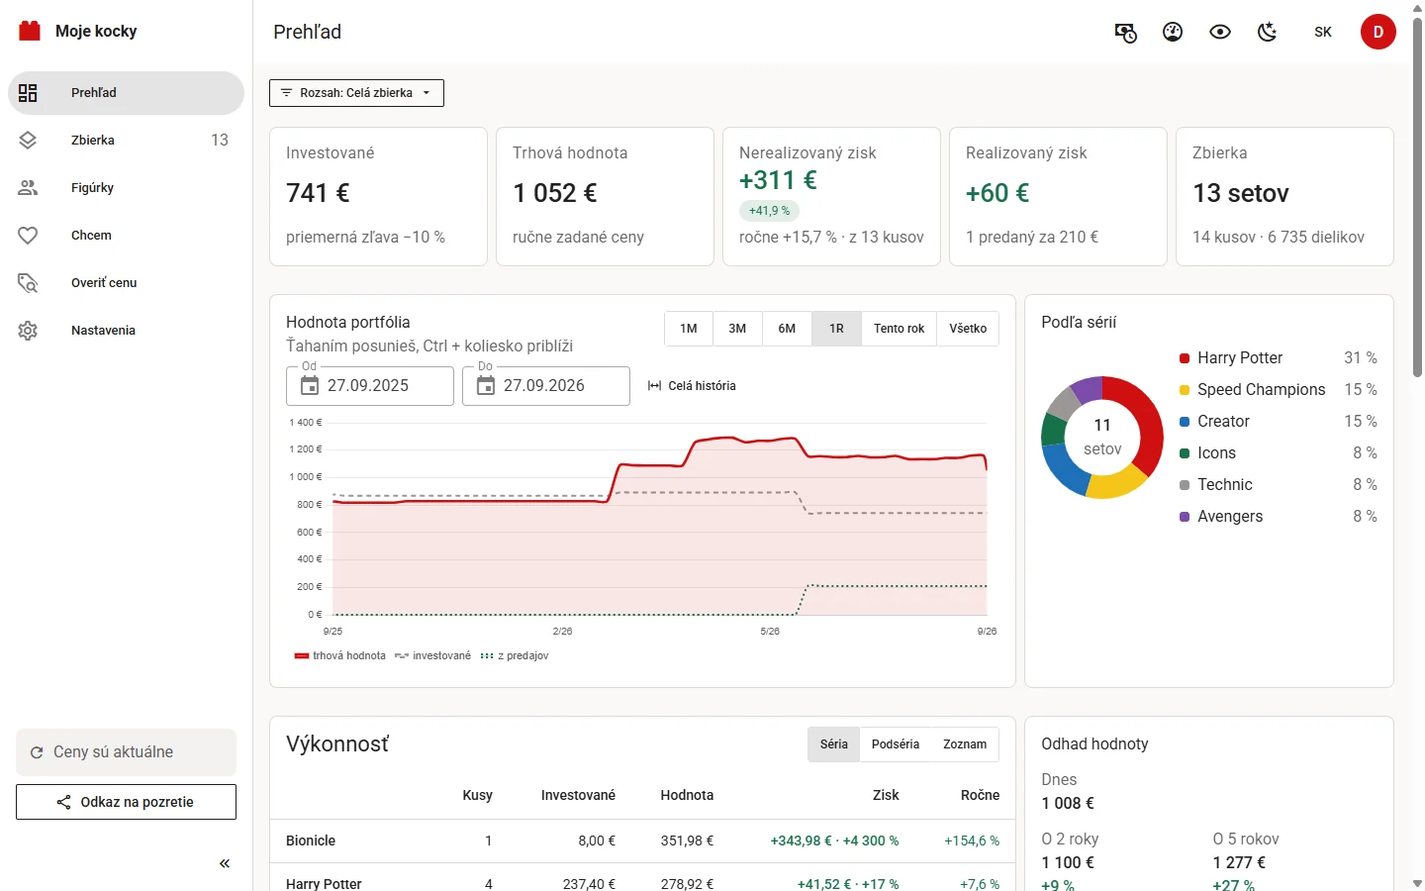
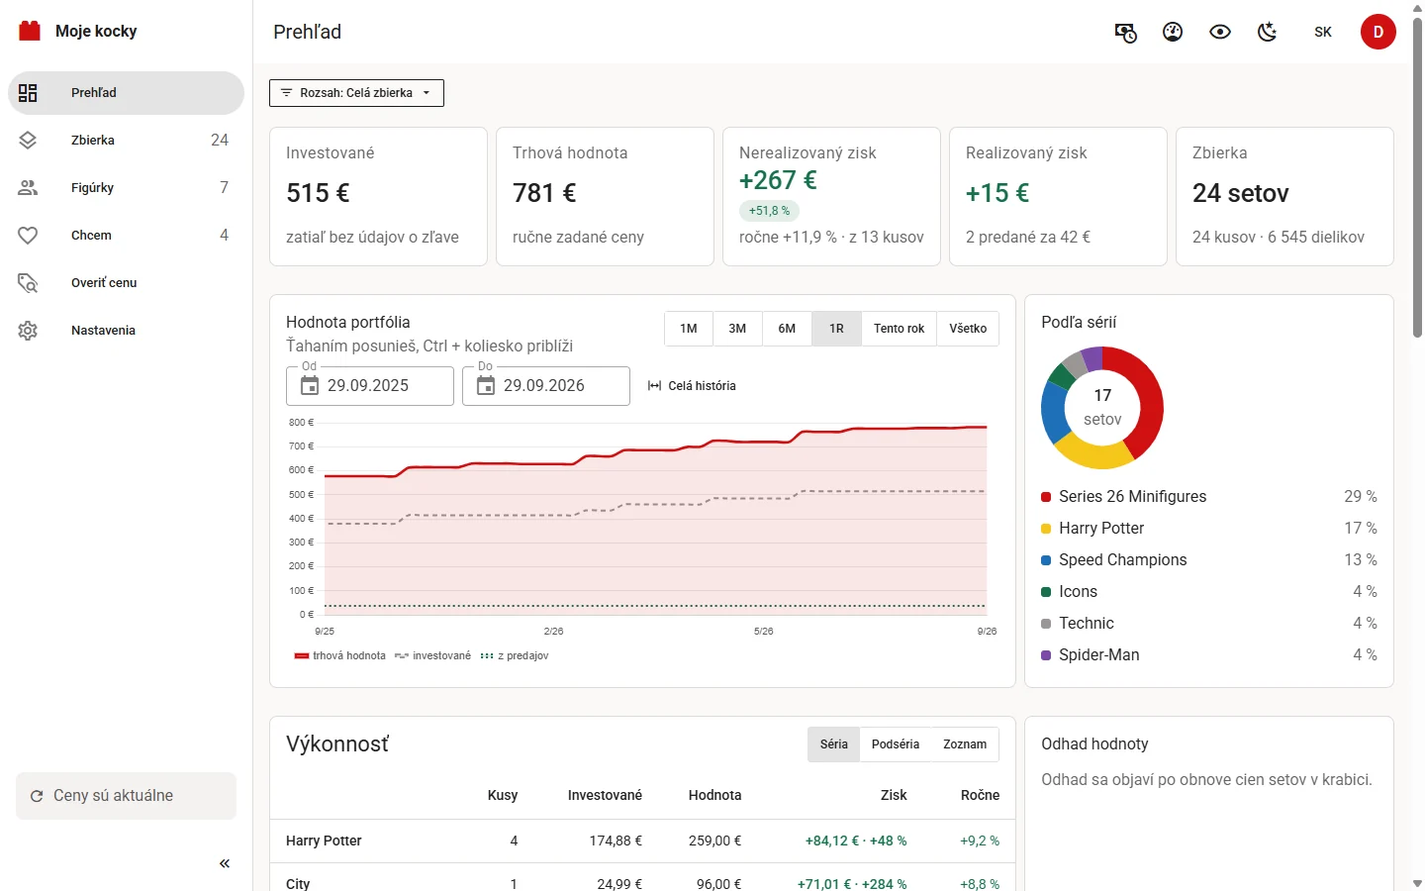
Galéria desktopu a odkazy na kód oboch verzií
Deväť snímok z desktopovej verzie s ukážkovou zbierkou (vymyslené ručné
ceny, bez kľúčov Brickset a BrickEconomy); náhľad sa zväčší v dialógu,
šípky a klávesy listujú, bez skriptu sa otvorí obrázok. Nová sekcia
o zdrojovom kóde: Windows (moje-kocky-desktop) a webová verzia na vlastný
server (moje-kocky) s tým, čo prevádzka obnáša.

diff --git a/index.html b/index.html
@@ -28,16 +28,17 @@ Moje kocky
 </a>
 <nav class="nav" aria-label="Sekcie">
 <a href="#funkcie"><span class="sk">Čo vie</span><span class="en">Features</span></a>
+<a href="#galeria"><span class="sk">Galéria</span><span class="en">Gallery</span></a>
 <a href="#instalacia"><span class="sk">Inštalácia</span><span class="en">Install</span></a>
 <a href="#sluzby"><span class="sk">Služby a kľúče</span><span class="en">Services</span></a>
 <a href="#licencie"><span class="sk">Licencie</span><span class="en">Licences</span></a>
-<a href="#otazky"><span class="sk">Otázky</span><span class="en">FAQ</span></a>
+<a href="#kod"><span class="sk">Kód</span><span class="en">Code</span></a>
 </nav>
 <div class="lang" role="group" aria-label="Jazyk / Language">
 <button type="button" data-lang="sk" aria-pressed="true">SK</button>
 <button type="button" data-lang="en" aria-pressed="false">EN</button>
 </div>
-<a class="btn-outline" href="https://github.com/jakubmatisak/moje-kocky-desktop">
+<a class="btn-outline" href="#kod">
 <svg width="18" height="18" viewBox="0 0 24 24" fill="none" stroke="currentColor" stroke-width="2" stroke-linecap="round" stroke-linejoin="round" aria-hidden="true"><path d="M8 7l-5 5 5 5"/><path d="M16 7l5 5-5 5"/></svg>
 <span class="sk">Zdrojový kód</span><span class="en">Source code</span>
 </a>
@@ -45,11 +46,12 @@ Moje kocky
 <summary aria-label="Ponuka / Menu"><svg width="24" height="24" viewBox="0 0 24 24" fill="none" stroke="currentColor" stroke-width="2" stroke-linecap="round" aria-hidden="true"><path d="M4 7h16"/><path d="M4 12h16"/><path d="M4 17h16"/></svg></summary>
 <div class="menu-panel">
 <a href="#funkcie"><span class="sk">Čo vie</span><span class="en">Features</span></a>
+<a href="#galeria"><span class="sk">Galéria</span><span class="en">Gallery</span></a>
 <a href="#instalacia"><span class="sk">Inštalácia</span><span class="en">Install</span></a>
 <a href="#sluzby"><span class="sk">Služby a kľúče</span><span class="en">Services</span></a>
 <a href="#licencie"><span class="sk">Licencie</span><span class="en">Licences</span></a>
 <a href="#otazky"><span class="sk">Otázky</span><span class="en">FAQ</span></a>
-<a href="https://github.com/jakubmatisak/moje-kocky-desktop"><span class="sk">Zdrojový kód</span><span class="en">Source code</span></a>
+<a href="#kod"><span class="sk">Zdrojový kód a web</span><span class="en">Source and web version</span></a>
 </div>
 </details>
 </div>
@@ -139,18 +141,62 @@ Moje kocky
 </div>
 </section>
 
-<section class="section">
-<div class="wrap showcase">
-<figure class="shot">
-<img src="assets/img/zbierka.webp" width="1440" height="900" loading="lazy" alt="Zbierka: karty setov s kúpnou cenou, hodnotou a ziskom, vpravo panel filtrov" data-alt-en="Collection: set cards with purchase price, value and profit, filter panel on the right">
-</figure>
-<div class="showcase-text">
-<h2 class="small"><span class="sk">Každý set na jednom mieste</span><span class="en">Every set in one place</span></h2>
-<p><span class="sk">Karty alebo tabuľka, zoskupené podľa setu či série. Pri každom kuse kúpna cena, dnešná hodnota a zisk v percentách.</span><span class="en">Cards or a table, grouped by set or series. For every item the purchase price, today’s value and profit in percent.</span></p>
-<p class="fine"><span class="sk">Snímky sú z ukážkovej zbierky s ručne zadanými cenami.</span><span class="en">Screenshots show a sample collection with manually entered prices.</span></p>
+<section class="section" id="galeria">
+<div class="wrap">
+<div class="section-head">
+<h2><span class="sk">Ako to vyzerá</span><span class="en">What it looks like</span></h2>
+<p><span class="sk">Klikni na obrázok a zväčší sa; šípkami listuješ. Snímky sú z desktopovej verzie s ukážkovou zbierkou a vymyslenými, ručne zadanými cenami. Ukážkový účet nemá kľúče Brickset ani BrickEconomy, preto miestami vidieť tip, čo by služba doplnila.</span><span class="en">Click a picture to enlarge it; use the arrows to browse. Screenshots come from the desktop version with a sample collection and made-up, manually entered prices. The sample account has no Brickset or BrickEconomy key, so you can see hints of what those services would add.</span></p>
 </div>
+<ul class="gallery">
+<li class="wide"><a class="thumb" href="assets/img/zbierka.webp" data-full="assets/img/zbierka.webp">
+<img src="assets/img/zbierka.webp" width="1440" height="900" loading="lazy" alt="Zbierka ako karty: Pri každom sete kúpna cena, dnešná hodnota a zisk; filtre vpravo." data-alt-en="Collection as cards: Purchase price, today’s value and profit for every set; filters on the right.">
+<span class="cap"><strong><span class="sk">Zbierka ako karty</span><span class="en">Collection as cards</span></strong><span class="sk">Pri každom sete kúpna cena, dnešná hodnota a zisk; filtre vpravo.</span><span class="en">Purchase price, today’s value and profit for every set; filters on the right.</span></span>
+</a></li>
+<li><a class="thumb" href="assets/img/prehlad.webp" data-full="assets/img/prehlad.webp">
+<img src="assets/img/prehlad-male.webp" width="720" height="450" loading="lazy" alt="Prehľad: Investované, hodnota, nerealizovaný a realizovaný zisk, graf portfólia a rozdelenie podľa sérií." data-alt-en="Overview: Invested, value, unrealised and realised profit, portfolio chart and split by theme.">
+<span class="cap"><strong><span class="sk">Prehľad</span><span class="en">Overview</span></strong><span class="sk">Investované, hodnota, nerealizovaný a realizovaný zisk, graf portfólia a rozdelenie podľa sérií.</span><span class="en">Invested, value, unrealised and realised profit, portfolio chart and split by theme.</span></span>
+</a></li>
+<li><a class="thumb" href="assets/img/tabulka.webp" data-full="assets/img/tabulka.webp">
+<img src="assets/img/tabulka-male.webp" width="720" height="450" loading="lazy" alt="Zbierka ako tabuľka: Tie isté filtre, zoradenie podľa stĺpcov a hromadná úprava." data-alt-en="Collection as a table: The same filters, sorting by column and bulk editing.">
+<span class="cap"><strong><span class="sk">Zbierka ako tabuľka</span><span class="en">Collection as a table</span></strong><span class="sk">Tie isté filtre, zoradenie podľa stĺpcov a hromadná úprava.</span><span class="en">The same filters, sorting by column and bulk editing.</span></span>
+</a></li>
+<li><a class="thumb" href="assets/img/detail.webp" data-full="assets/img/detail.webp">
+<img src="assets/img/detail-male.webp" width="720" height="450" loading="lazy" alt="Detail setu: Tvoje kusy s umiestnením, zisk a vývoj ceny v čase." data-alt-en="Set detail: Your copies with their storage place, profit and price history.">
+<span class="cap"><strong><span class="sk">Detail setu</span><span class="en">Set detail</span></strong><span class="sk">Tvoje kusy s umiestnením, zisk a vývoj ceny v čase.</span><span class="en">Your copies with their storage place, profit and price history.</span></span>
+</a></li>
+<li><a class="thumb" href="assets/img/chcem.webp" data-full="assets/img/chcem.webp">
+<img src="assets/img/chcem-male.webp" width="720" height="450" loading="lazy" alt="Chcem: Želané sety s cieľovou cenou a tým, ako ďaleko od nej je trh." data-alt-en="Wishlist: Wanted sets with a target price and how far the market is from it.">
+<span class="cap"><strong><span class="sk">Chcem</span><span class="en">Wishlist</span></strong><span class="sk">Želané sety s cieľovou cenou a tým, ako ďaleko od nej je trh.</span><span class="en">Wanted sets with a target price and how far the market is from it.</span></span>
+</a></li>
+<li><a class="thumb" href="assets/img/figurky.webp" data-full="assets/img/figurky.webp">
+<img src="assets/img/figurky-male.webp" width="720" height="450" loading="lazy" alt="Zberateľské série: Všetky série minifigúrok aj blind-boxy iných radov, s postupom zbierania." data-alt-en="Collectible series: Every minifigure series and other blind-box lines, with your progress.">
+<span class="cap"><strong><span class="sk">Zberateľské série</span><span class="en">Collectible series</span></strong><span class="sk">Všetky série minifigúrok aj blind-boxy iných radov, s postupom zbierania.</span><span class="en">Every minifigure series and other blind-box lines, with your progress.</span></span>
+</a></li>
+<li><a class="thumb" href="assets/img/seria.webp" data-full="assets/img/seria.webp">
+<img src="assets/img/seria-male.webp" width="720" height="450" loading="lazy" alt="Čo ti chýba: Ktoré figúrky zo série máš a ktoré chýbajú; chýbajúcu pridáš do Chcem jedným klikom." data-alt-en="What you are missing: Which figures of a series you have and which are missing; add one to your wishlist in a click.">
+<span class="cap"><strong><span class="sk">Čo ti chýba</span><span class="en">What you are missing</span></strong><span class="sk">Ktoré figúrky zo série máš a ktoré chýbajú; chýbajúcu pridáš do Chcem jedným klikom.</span><span class="en">Which figures of a series you have and which are missing; add one to your wishlist in a click.</span></span>
+</a></li>
+<li><a class="thumb" href="assets/img/pridat.webp" data-full="assets/img/pridat.webp">
+<img src="assets/img/pridat-male.webp" width="720" height="450" loading="lazy" alt="Pridanie setu: Číslom, ručnou čítačkou alebo kamerou; appka upozorní, keď set už máš." data-alt-en="Adding a set: By number, handheld scanner or camera; the app tells you when you already own it.">
+<span class="cap"><strong><span class="sk">Pridanie setu</span><span class="en">Adding a set</span></strong><span class="sk">Číslom, ručnou čítačkou alebo kamerou; appka upozorní, keď set už máš.</span><span class="en">By number, handheld scanner or camera; the app tells you when you already own it.</span></span>
+</a></li>
+<li><a class="thumb" href="assets/img/tmavy.webp" data-full="assets/img/tmavy.webp">
+<img src="assets/img/tmavy-male.webp" width="720" height="450" loading="lazy" alt="Tmavý režim: Celá appka aj v tmavom, prepína sa jedným tlačidlom." data-alt-en="Dark mode: The whole app in dark, switched with one button.">
+<span class="cap"><strong><span class="sk">Tmavý režim</span><span class="en">Dark mode</span></strong><span class="sk">Celá appka aj v tmavom, prepína sa jedným tlačidlom.</span><span class="en">The whole app in dark, switched with one button.</span></span>
+</a></li>
+</ul>
 </div>
 </section>
+
+<dialog class="lightbox" aria-label="Galéria / Gallery">
+<figure>
+<img alt="">
+<figcaption></figcaption>
+</figure>
+<button type="button" class="lb-prev" aria-label="Predchádzajúci / Previous"><svg width="28" height="28" viewBox="0 0 24 24" fill="none" stroke="currentColor" stroke-width="2" stroke-linecap="round" stroke-linejoin="round" aria-hidden="true"><path d="M15 5l-7 7 7 7"/></svg></button>
+<button type="button" class="lb-next" aria-label="Ďalší / Next"><svg width="28" height="28" viewBox="0 0 24 24" fill="none" stroke="currentColor" stroke-width="2" stroke-linecap="round" stroke-linejoin="round" aria-hidden="true"><path d="M9 5l7 7-7 7"/></svg></button>
+<button type="button" class="lb-close" aria-label="Zavrieť / Close"><svg width="24" height="24" viewBox="0 0 24 24" fill="none" stroke="currentColor" stroke-width="2" stroke-linecap="round" aria-hidden="true"><path d="M6 6l12 12M18 6L6 18"/></svg></button>
+</dialog>
 
 <section class="section" id="instalacia">
 <div class="wrap">
@@ -281,6 +327,38 @@ Moje kocky
 </div>
 </section>
 
+<section class="section" id="kod">
+<div class="wrap">
+<div class="section-head">
+<h2><span class="sk">Zdrojový kód a webová verzia</span><span class="en">Source code and the web version</span></h2>
+<p><span class="sk">Moje kocky existujú v dvoch podobách s rovnakými funkciami. Obe sú otvorené pod licenciou MIT.</span><span class="en">Moje kocky comes in two forms with the same features. Both are open source under the MIT licence.</span></p>
+</div>
+<div class="grid g2">
+<article class="card repo">
+<div class="card-head"><h3><span class="sk">Pre Windows</span><span class="en">For Windows</span></h3><span class="badge"><span class="sk">odporúčané</span><span class="en">recommended</span></span></div>
+<p><span class="sk">Tento program. Appka beží v okne na tvojom počítači (Python a Vue cez pywebview), bez servera a bez otvoreného portu. Inštalátor sa zostavuje z tohto repozitára a na GitHube ho pri každom vydaní vyrobí automatické zostavenie.</span><span class="en">This program. The app runs in a window on your computer (Python and Vue via pywebview), with no server and no open port. The installer is built from this repository, and GitHub builds it automatically for every release.</span></p>
+<a class="btn-outline repo-link" href="https://github.com/jakubmatisak/moje-kocky-desktop">
+<svg width="18" height="18" viewBox="0 0 24 24" fill="none" stroke="currentColor" stroke-width="2" stroke-linecap="round" stroke-linejoin="round" aria-hidden="true"><path d="M8 7l-5 5 5 5"/><path d="M16 7l5 5-5 5"/></svg>
+GitHub · moje-kocky-desktop
+</a>
+</article>
+<article class="card repo">
+<div class="card-head"><h3><span class="sk">Webová verzia na vlastný server</span><span class="en">Web version for your own server</span></h3><span class="badge"><span class="sk">pre pokročilých</span><span class="en">for advanced users</span></span></div>
+<p><span class="sk">Tá istá appka ako webová služba, ktorú si spustíš cez Docker na svojom serveri alebo NAS. Hodí sa, keď chceš zbierku otvárať z telefónu či viacerých počítačov alebo ju niekomu ukázať cez odkaz na pozretie (celú zbierku alebo zoznam Chcem, so sumami alebo bez nich).</span><span class="en">The same app as a web service you run with Docker on your own server or NAS. Useful when you want to open your collection from a phone or several computers, or show it to someone through a view-only link (the whole collection or the wishlist, with or without amounts).</span></p>
+<ul class="facts">
+<li><span class="sk">Hostovanú verziu neprevádzkujem. Server, zálohy priečinka <code>data/</code> a aktualizácie sú na tebe.</span><span class="en">I do not run a hosted version. The server, backups of the <code>data/</code> folder and updates are up to you.</span></li>
+<li><span class="sk">Kamera na skenovanie ide len cez HTTPS alebo na localhost.</span><span class="en">The scanning camera only works over HTTPS or on localhost.</span></li>
+<li><span class="sk">Keď appku otvoríš iným ľuďom, stávaš sa prevádzkovateľom podľa GDPR: v appke vyplníš kontakt do zásad ochrany súkromia. Kľúče k službám si aj tak každý zadáva vlastné.</span><span class="en">If you open the app to other people, you become the data controller under GDPR: you fill in your contact for the privacy notice in the app. Everyone still enters their own service keys.</span></li>
+</ul>
+<a class="btn-outline repo-link" href="https://github.com/jakubmatisak/moje-kocky">
+<svg width="18" height="18" viewBox="0 0 24 24" fill="none" stroke="currentColor" stroke-width="2" stroke-linecap="round" stroke-linejoin="round" aria-hidden="true"><path d="M8 7l-5 5 5 5"/><path d="M16 7l5 5-5 5"/></svg>
+GitHub · moje-kocky
+</a>
+</article>
+</div>
+</div>
+</section>
+
 <section class="section faq" id="otazky">
 <div class="wrap">
 <div class="section-head">
@@ -315,7 +393,8 @@ Moje kocky
 <svg width="28" height="28" viewBox="0 0 32 32" aria-hidden="true"><rect width="32" height="32" rx="7" fill="#D01012"/><g fill="#F5C518"><circle cx="10.24" cy="10.24" r="3.7"/><circle cx="21.76" cy="10.24" r="3.7"/><circle cx="10.24" cy="21.76" r="3.7"/><circle cx="21.76" cy="21.76" r="3.7"/></g></svg>
 Moje kocky
 </span>
-<a href="https://github.com/jakubmatisak/moje-kocky-desktop">GitHub</a>
+<a href="https://github.com/jakubmatisak/moje-kocky-desktop"><span class="sk">Kód pre Windows</span><span class="en">Windows source</span></a>
+<a href="https://github.com/jakubmatisak/moje-kocky"><span class="sk">Kód webovej verzie</span><span class="en">Web version source</span></a>
 <a href="https://github.com/jakubmatisak/moje-kocky-desktop/blob/main/LICENSE"><span class="sk">Licencia MIT</span><span class="en">MIT licence</span></a>
 </div>
 <p><span class="sk">LEGO® je ochranná známka skupiny spoločností LEGO Group, ktorá túto stránku nesponzoruje, neautorizuje ani neschvaľuje.</span> LEGO® is a trademark of the LEGO Group of companies which does not sponsor, authorize or endorse this site. <span class="sk">Moje kocky nie sú spojené s Rebrickable, Brickset, BrickEconomy, UPCitemdb ani Eurostatom. Obrázky setov na snímkach sú chránené autorským právom LEGO Group.</span><span class="en">Moje kocky is not affiliated with Rebrickable, Brickset, BrickEconomy, UPCitemdb or Eurostat. Set images in the screenshots are copyright of the LEGO Group.</span></p>

diff --git a/assets/style.css b/assets/style.css
@@ -143,10 +143,6 @@ h2.small { font-size: 30px; line-height: 38px; }
 .step { width: 40px; height: 40px; border-radius: 20px; background: var(--primary); color: var(--on-primary); display: flex; align-items: center; justify-content: center; font-size: 18px; font-weight: 700; }
 .note { margin-top: 24px; font-size: 15px; line-height: 24px; color: var(--muted); }
 
-.showcase { display: grid; grid-template-columns: minmax(0, 1fr) 360px; gap: 56px; align-items: center; }
-.showcase-text { display: flex; flex-direction: column; gap: 16px; }
-.showcase-text p { font-size: 17px; line-height: 27px; color: var(--muted); }
-.showcase-text p.fine { font-size: 14px; line-height: 22px; }
 
 /* Služby */
 .table { background: var(--surface); border: 1px solid var(--border); border-radius: 10px; overflow: hidden; }
@@ -174,9 +170,8 @@ footer p { max-width: 960px; font-size: 14px; line-height: 22px; color: var(--fo
 
 /* Tablet */
 @media (max-width: 1100px) {
-  .hero .wrap, .showcase { grid-template-columns: minmax(0, 1fr); }
+  .hero .wrap { grid-template-columns: minmax(0, 1fr); }
   .hero-text { max-width: 680px; }
-  .showcase-text { order: -1; max-width: 680px; }
   .g3, .software { grid-template-columns: repeat(2, minmax(0, 1fr)); }
   .row { grid-template-columns: 160px minmax(0, 1fr) 200px; }
 }
@@ -219,7 +214,6 @@ footer p { max-width: 960px; font-size: 14px; line-height: 22px; color: var(--fo
   .card h3 { font-size: 18px; }
   .steps .card { display: grid; grid-template-columns: 40px minmax(0, 1fr); column-gap: 16px; row-gap: 6px; }
   .steps .card .step { grid-row: span 2; width: 36px; height: 36px; font-size: 16px; }
-  .showcase { gap: 16px; }
   .row { grid-template-columns: minmax(0, 1fr) auto; gap: 4px 12px; padding: 16px 20px; }
   .row.head { display: none; }
   .row .what { grid-column: 1 / -1; grid-row: 2; font-size: 14px; line-height: 21px; }
@@ -232,3 +226,49 @@ footer p { max-width: 960px; font-size: 14px; line-height: 22px; color: var(--fo
   footer p { font-size: 13px; line-height: 20px; }
 }
 .reg { font-size: 0.45em; vertical-align: 0.9em; font-weight: 500; margin-left: 1px; }
+
+/* Galéria */
+.gallery { list-style: none; margin: 0; padding: 0; display: grid; grid-template-columns: repeat(2, minmax(0, 1fr)); gap: 24px; }
+.gallery .wide { grid-column: 1 / -1; }
+.gallery .wide .cap { padding: 18px 22px 20px; }
+.gallery .wide .cap strong { font-size: 18px; }
+.thumb { display: flex; flex-direction: column; height: 100%; background: var(--surface); border: 1px solid var(--border); border-radius: 10px; overflow: hidden; color: var(--text); text-decoration: none; transition: box-shadow 0.15s, transform 0.15s; }
+.thumb:hover { color: var(--text); box-shadow: var(--shadow); transform: translateY(-2px); }
+.thumb img { display: block; width: 100%; height: auto; aspect-ratio: 16 / 10; object-fit: cover; object-position: top left; border-bottom: 1px solid var(--border); }
+.cap { display: flex; flex-direction: column; gap: 4px; padding: 16px 18px 18px; font-size: 14px; line-height: 21px; color: var(--muted); }
+.cap strong { font-size: 16px; font-weight: 500; color: var(--text); }
+@media (prefers-reduced-motion: reduce) { .thumb, .thumb:hover { transition: none; transform: none; } }
+
+.lightbox { width: min(1440px, 96vw); max-width: none; max-height: 96vh; padding: 0; border: 0; border-radius: 12px; background: var(--surface); color: var(--text); overflow: visible; }
+.lightbox::backdrop { background: rgba(10, 8, 8, 0.82); }
+.lightbox figure { margin: 0; }
+.lightbox img { display: block; width: 100%; height: auto; max-height: calc(96vh - 72px); object-fit: contain; border-radius: 12px 12px 0 0; background: var(--surface-variant); }
+.lightbox figcaption { padding: 14px 20px; font-size: 15px; line-height: 22px; color: var(--muted); }
+.lightbox figcaption strong { color: var(--text); font-weight: 500; margin-right: 8px; }
+.lightbox button { position: absolute; width: 48px; height: 48px; border: 0; border-radius: 24px; background: var(--surface); color: var(--text); box-shadow: 0 2px 10px rgba(0, 0, 0, 0.3); display: flex; align-items: center; justify-content: center; cursor: pointer; }
+.lightbox button:hover { background: var(--surface-variant); }
+.lb-prev { left: -24px; top: 50%; transform: translateY(-50%); }
+.lb-next { right: -24px; top: 50%; transform: translateY(-50%); }
+.lb-close { right: -16px; top: -16px; }
+
+/* Zdrojový kód */
+.repo { justify-content: flex-start; }
+.repo-link { align-self: flex-start; margin-top: auto; max-width: 100%; overflow-wrap: anywhere; height: auto; min-height: 44px; }
+.facts { margin: 0; padding-left: 20px; display: flex; flex-direction: column; gap: 8px; font-size: 15px; line-height: 23px; color: var(--muted); }
+
+@media (max-width: 1100px) {
+  .gallery { gap: 18px; }
+  .lb-prev { left: 8px; }
+  .lb-next { right: 8px; }
+  .lb-close { right: 8px; top: 8px; }
+}
+@media (max-width: 640px) {
+  .gallery { grid-template-columns: minmax(0, 1fr); gap: 14px; }
+  .lightbox { width: 100vw; max-height: 100vh; border-radius: 0; }
+  .lightbox img { border-radius: 0; max-height: calc(100vh - 120px); }
+  .lightbox figcaption { padding: 14px 20px 76px; }
+  .lb-prev, .lb-next { top: auto; bottom: 14px; transform: none; }
+  .lb-prev { left: 20px; }
+  .lb-next { right: 20px; }
+  .repo-link { align-self: stretch; justify-content: center; font-size: 13px; overflow-wrap: normal; word-break: keep-all; }
+}

diff --git a/assets/site.js b/assets/site.js
@@ -53,4 +53,48 @@
   }
 
   apply(initial(), false);
+
+  // Galéria: náhľad otvorí veľkú snímku v dialógu, šípky a klávesy listujú.
+  // Bez skriptu odkaz otvorí obrázok priamo.
+  var thumbs = Array.prototype.slice.call(document.querySelectorAll('.gallery .thumb'));
+  var box = document.querySelector('.lightbox');
+  if (box && typeof box.showModal === 'function' && thumbs.length) {
+    var big = box.querySelector('img');
+    var caption = box.querySelector('figcaption');
+    var current = 0;
+
+    var show = function (index) {
+      current = (index + thumbs.length) % thumbs.length;
+      var thumb = thumbs[current];
+      var lang = document.documentElement.lang === 'en' ? 'en' : 'sk';
+      var parts = thumb.querySelectorAll('.cap .' + lang);
+      big.src = thumb.dataset.full;
+      big.alt = thumb.querySelector('img').alt;
+      caption.innerHTML = '';
+      var title = document.createElement('strong');
+      title.textContent = parts[0] ? parts[0].textContent : '';
+      caption.appendChild(title);
+      caption.appendChild(document.createTextNode(parts[1] ? parts[1].textContent : ''));
+    };
+
+    thumbs.forEach(function (thumb, index) {
+      thumb.addEventListener('click', function (event) {
+        event.preventDefault();
+        show(index);
+        box.showModal();
+      });
+    });
+    box.querySelector('.lb-prev').addEventListener('click', function () { show(current - 1); });
+    box.querySelector('.lb-next').addEventListener('click', function () { show(current + 1); });
+    box.querySelector('.lb-close').addEventListener('click', function () { box.close(); });
+    box.addEventListener('keydown', function (event) {
+      if (event.key === 'ArrowLeft') show(current - 1);
+      if (event.key === 'ArrowRight') show(current + 1);
+    });
+    // Klik mimo obrázka (na pozadie) dialóg zavrie.
+    box.addEventListener('click', function (event) {
+      if (event.target === box) box.close();
+    });
+    box.addEventListener('close', function () { thumbs[current].focus(); });
+  }
 })();

diff --git a/README.md b/README.md
@@ -9,9 +9,9 @@ Je to jeden statický súbor HTML bez frameworku a bez zostavovania:
 ```
 index.html                 obsah, slovensky aj anglicky (.sk / .en)
 assets/style.css           farby a rozloženie ako v appke, tmavý režim podľa systému
-assets/site.js             prepínač jazyka (?lang=en), nič neukladá
+assets/site.js             prepínač jazyka (?lang=en) a zväčšenie galérie, nič neukladá
 assets/fonts/              Roboto (OFL-1.1, pozri OFL.txt), uložené tu, nie z Google Fonts
-assets/img/                snímky z ukážkovej zbierky
+assets/img/                snímky desktopu s ukážkovou zbierkou (vymyslené ručné ceny), *-male = náhľady
 third-party-notices.txt    licencie knižníc v inštalátore (z packaging/notices.py desktopu)
 ```
 
